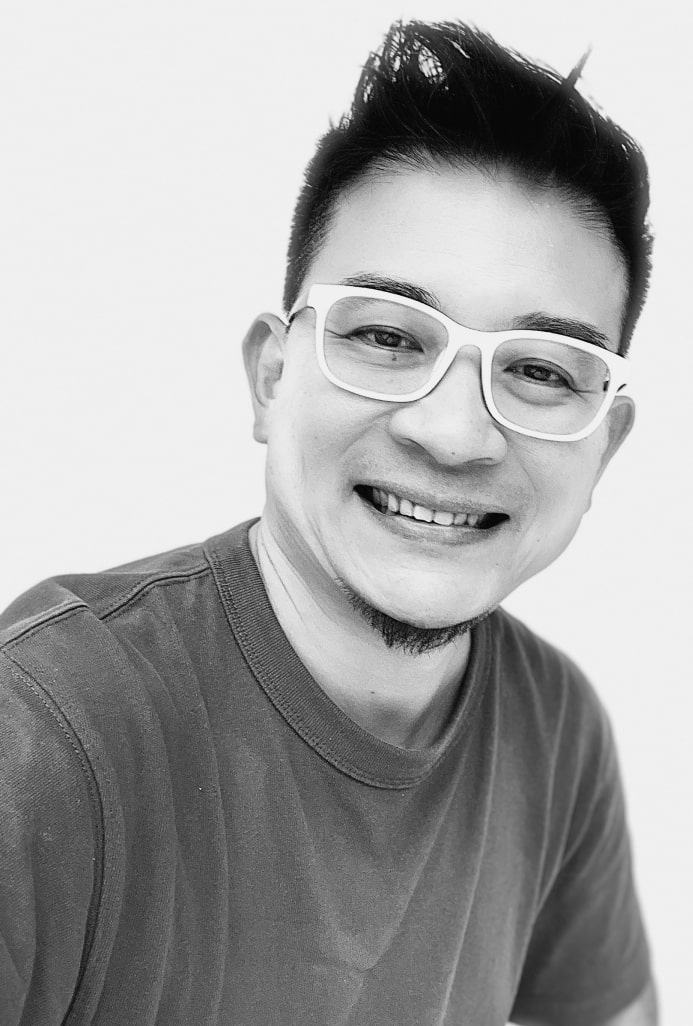
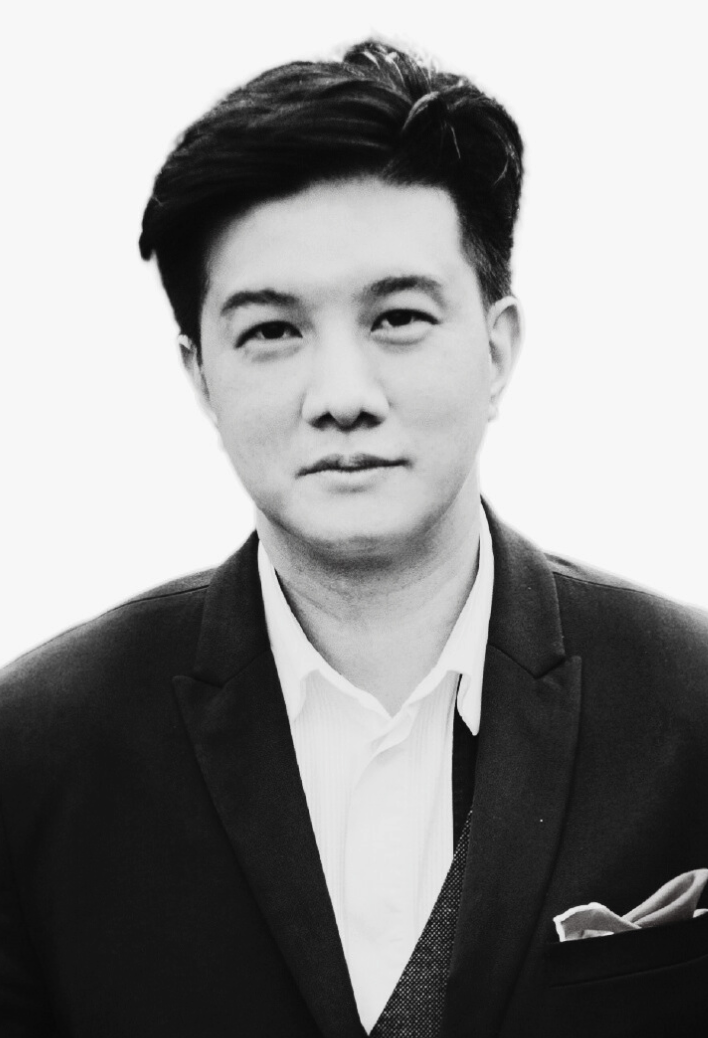
update image

diff --git a/about.html b/about.html
@@ -184,8 +184,8 @@
                                 <a href="javascript:;" class="img"> <img class="img-expert" src="./images/expert-6.jpg" alt="">
                                     <div class="overlay"></div></a> 
                                 <div class="info">
-                                    <h1>Alex Lim</h1>
-                                    <span>Executive Creative Director</span>
+                                    <h1>Nicholas Tan</h1>
+                                    <span>Communications and Marketing Director</span>
                                 </div>
                             </div>
                         </div>
